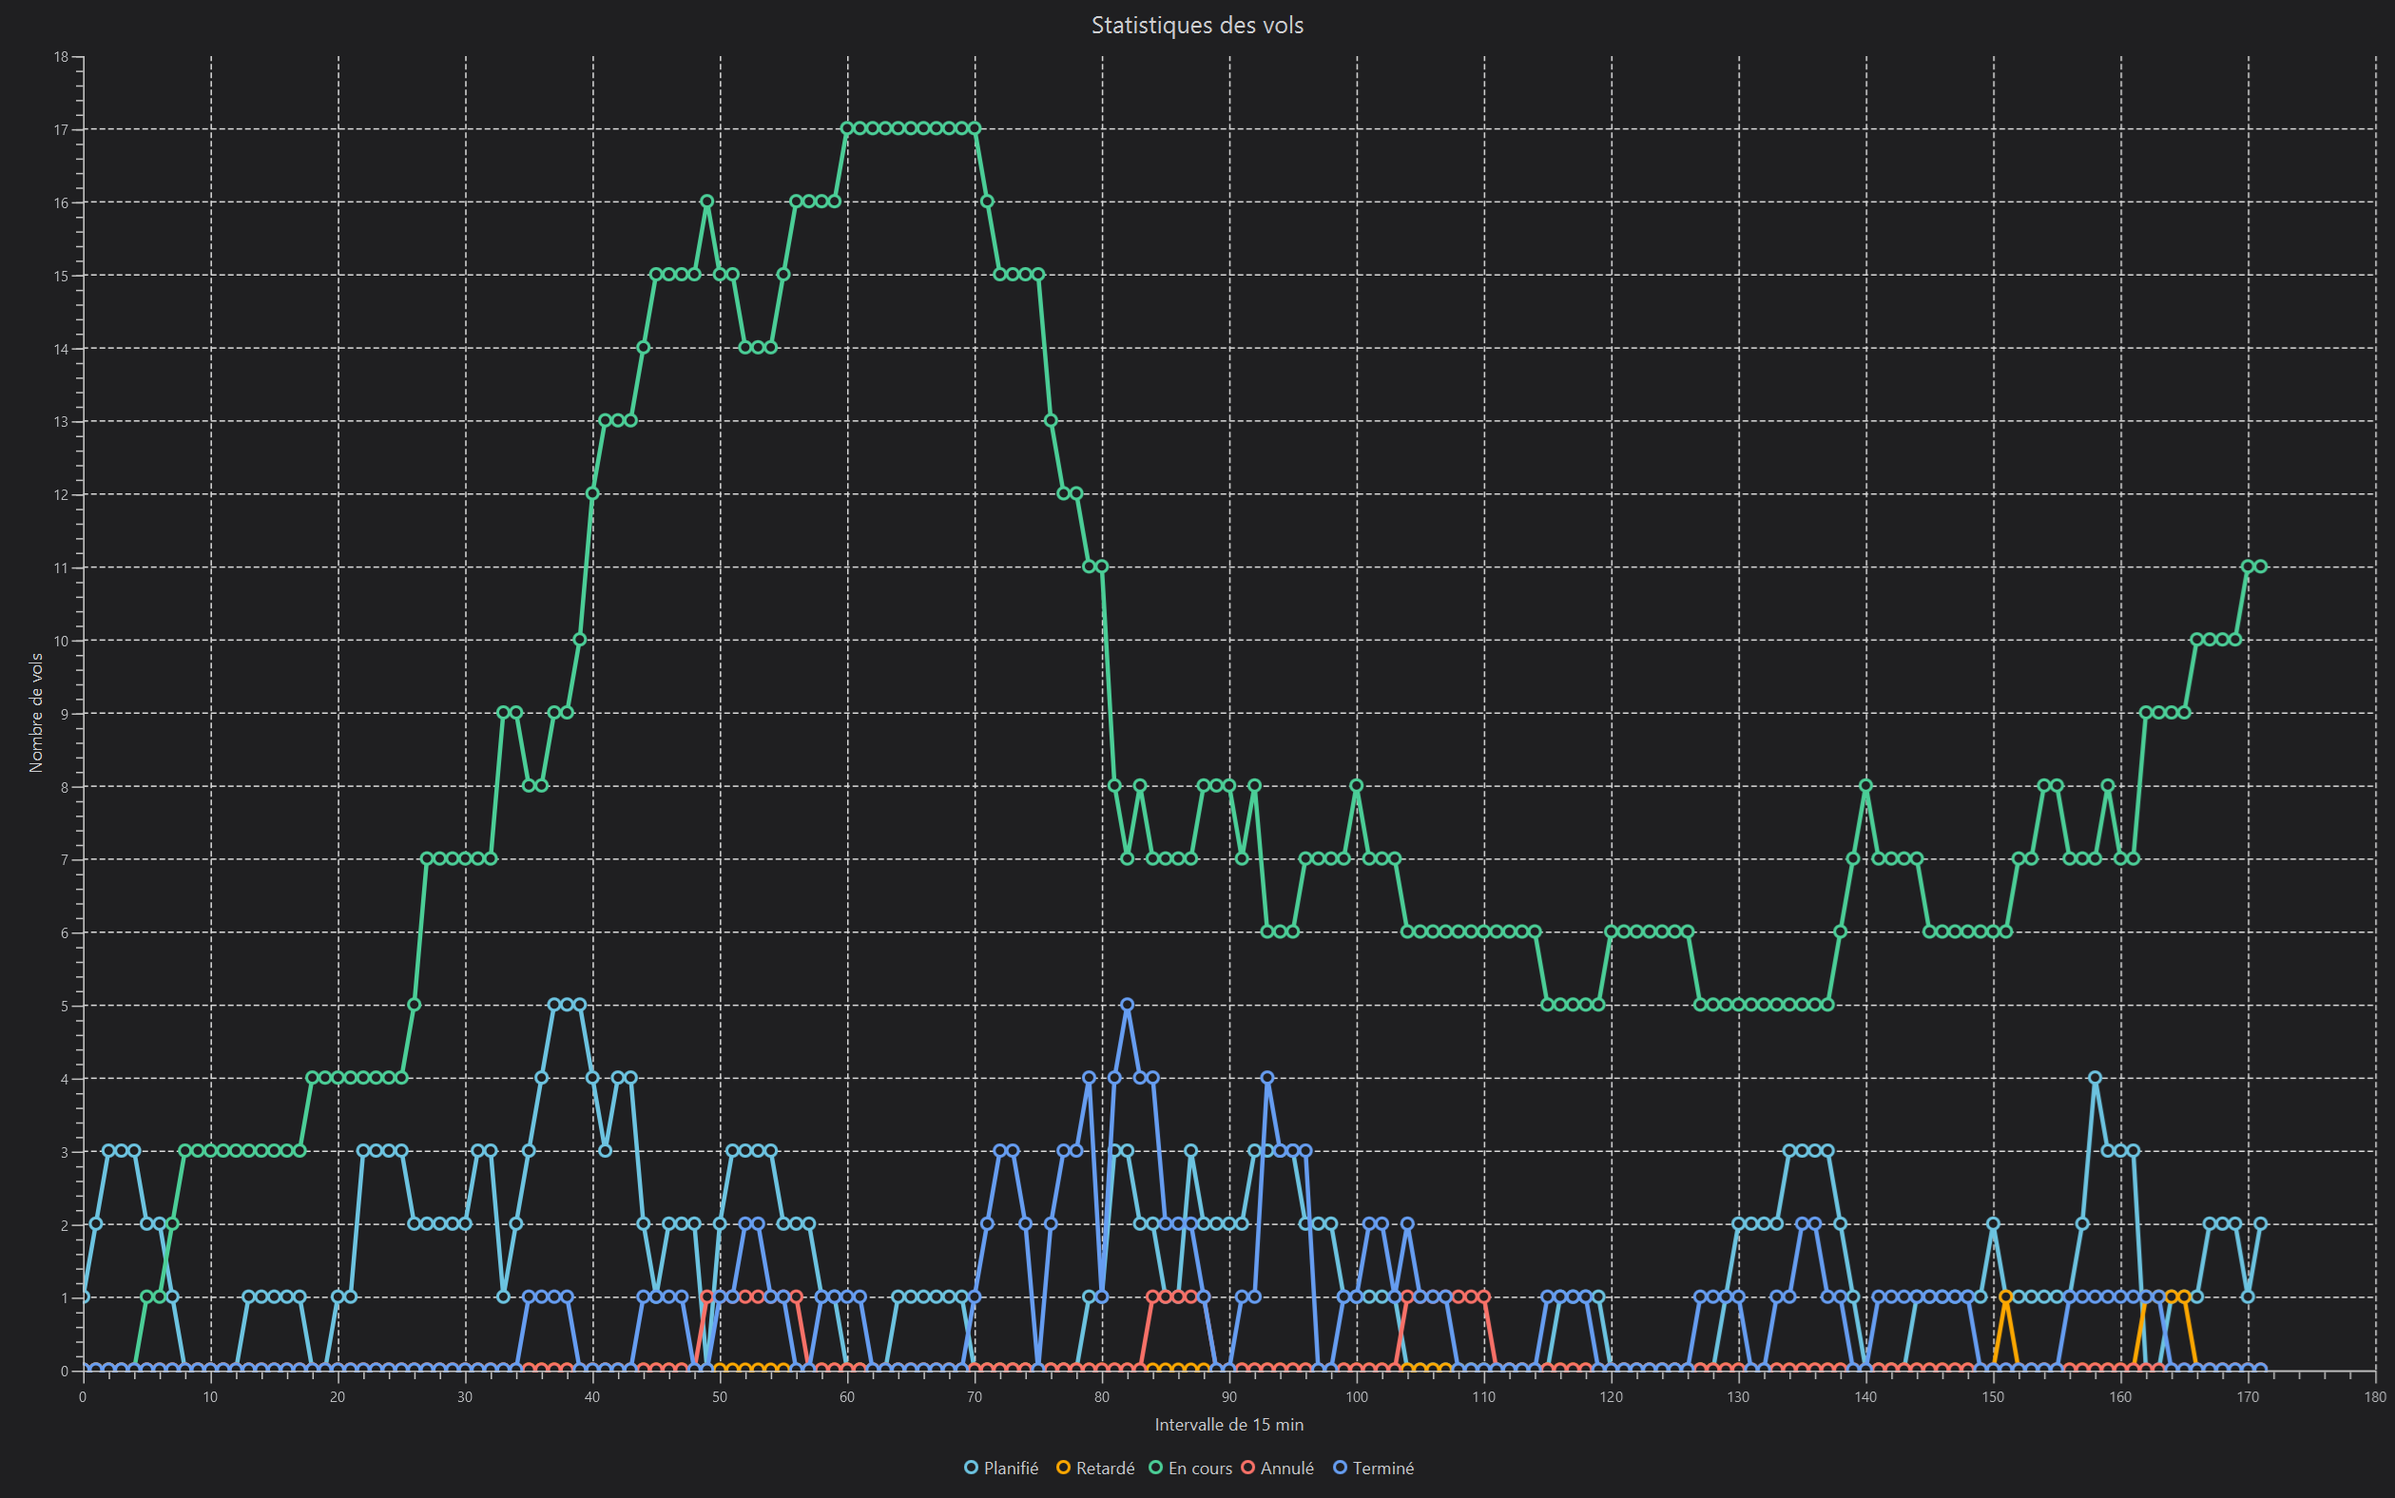
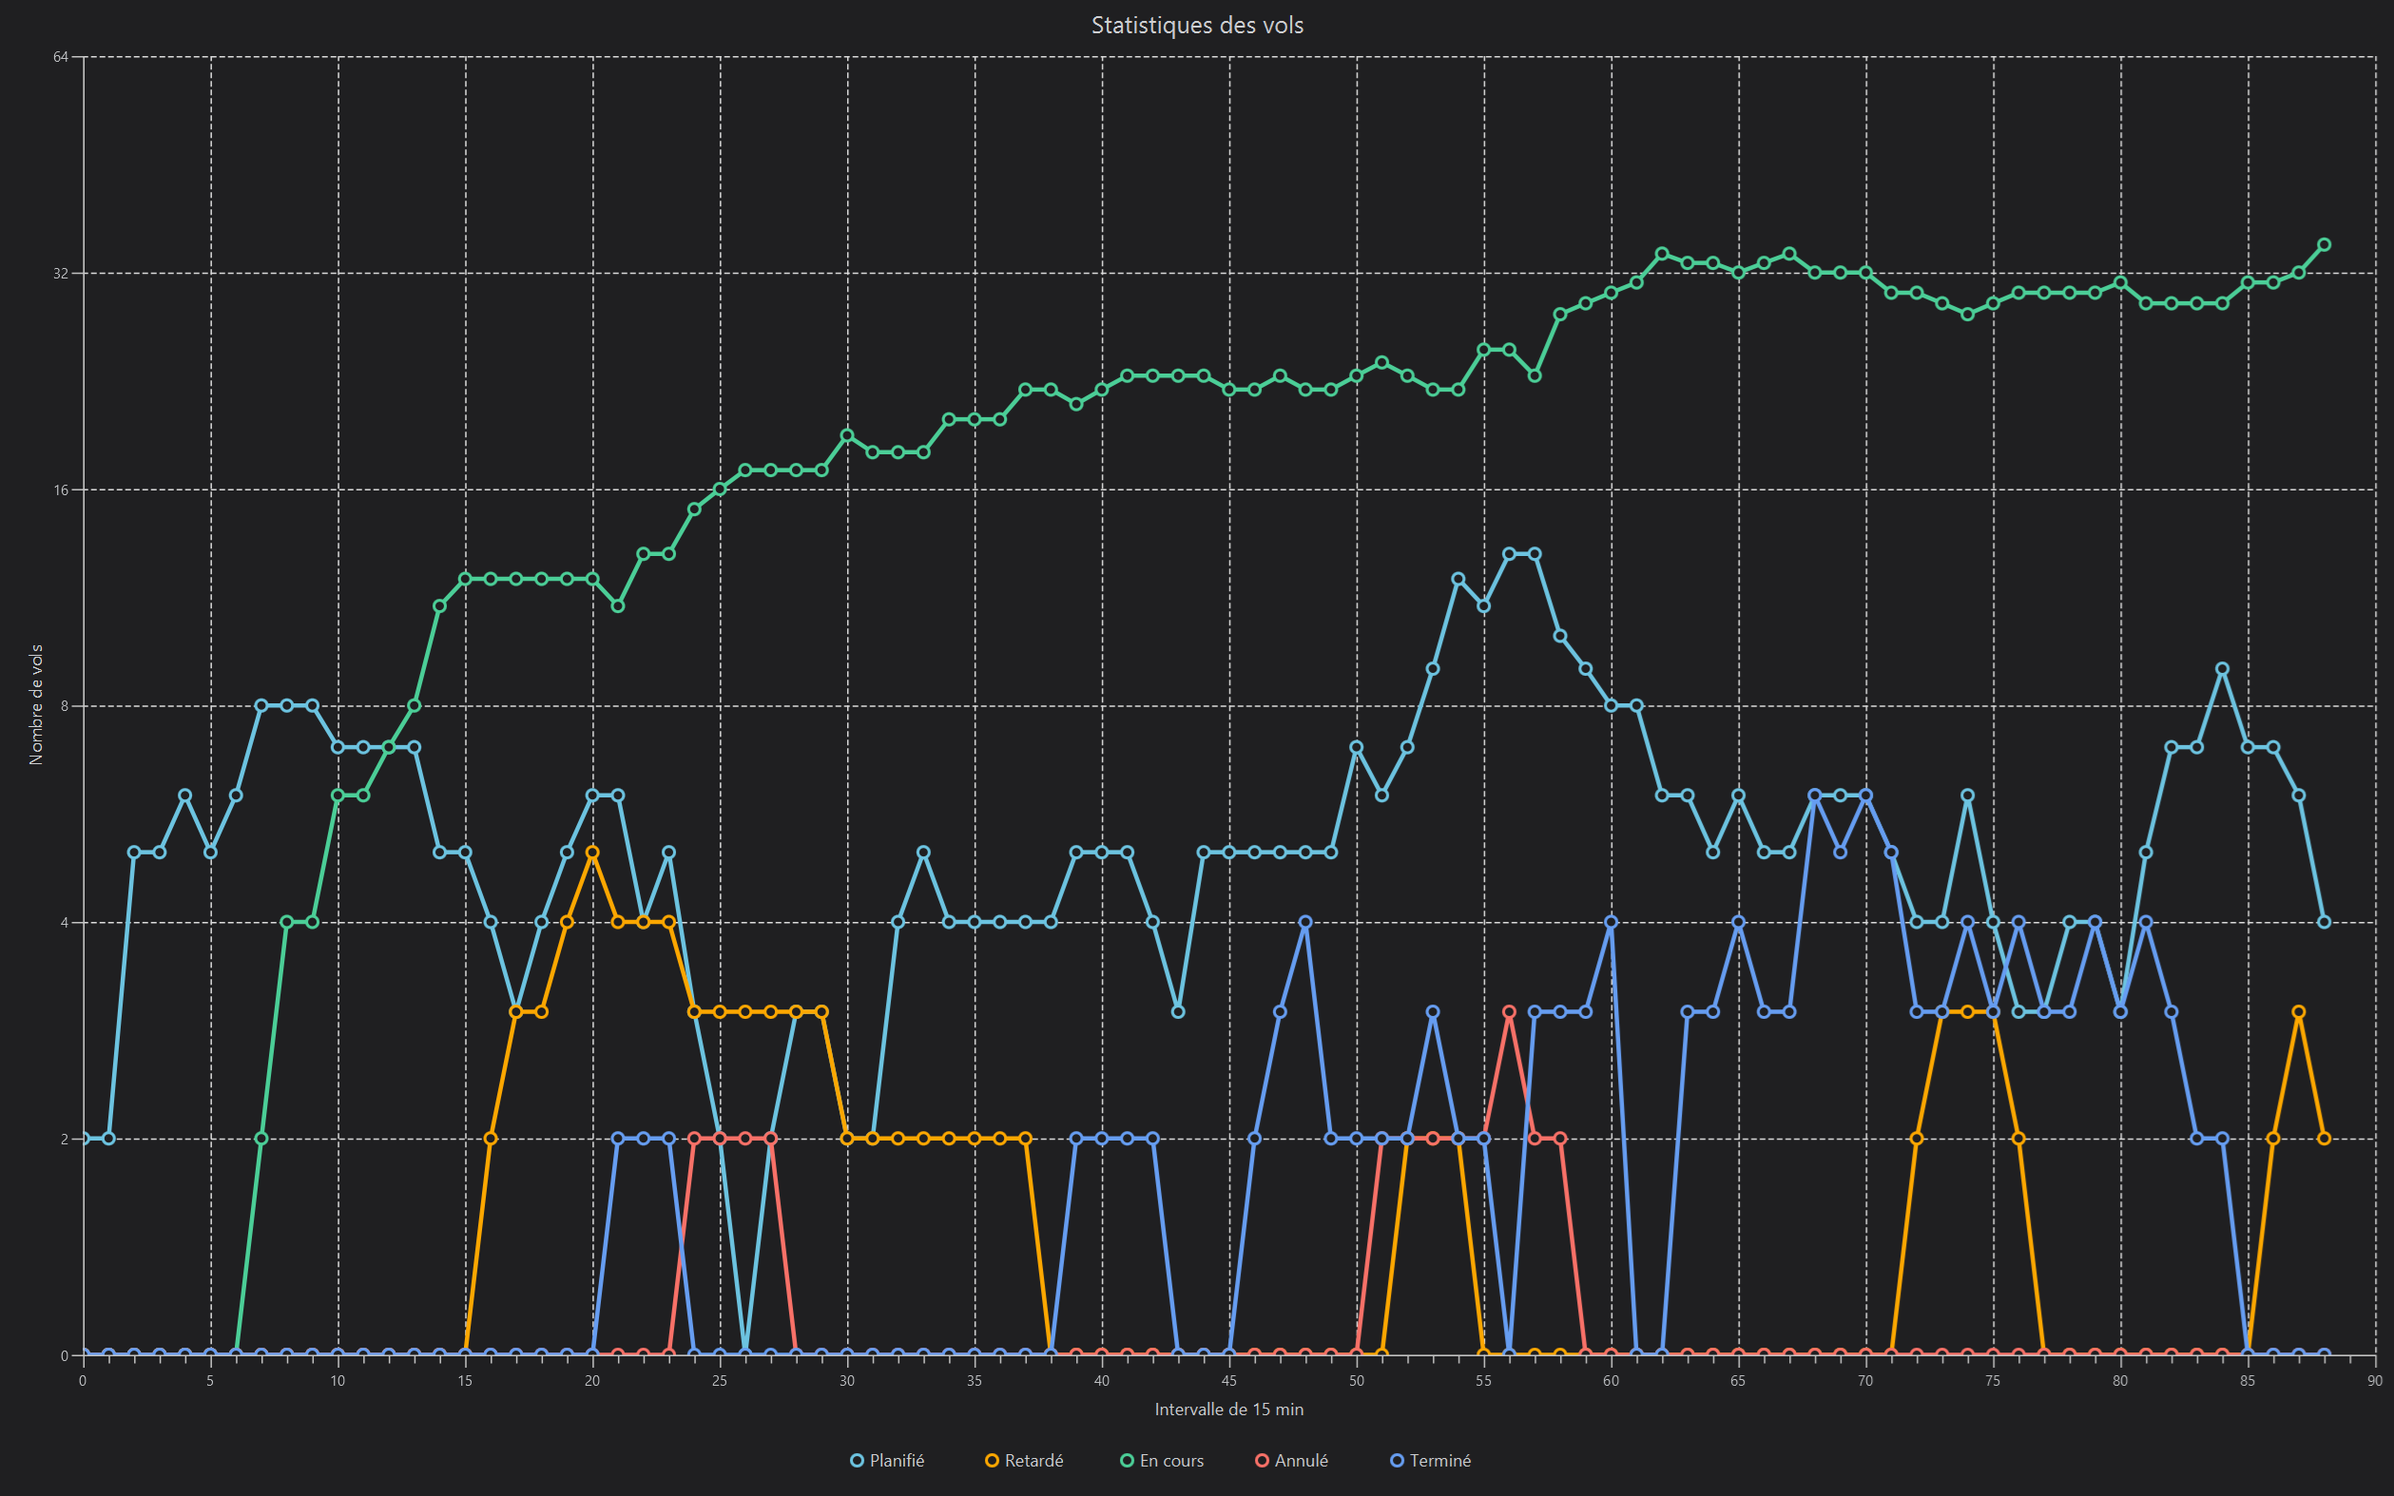
accidents can now spread to other flights

diff --git a/src/main/resources/acap/chart.css b/src/main/resources/acap/chart.css
@@ -20,11 +20,12 @@
 
 .chart-legend {
 	-fx-background-color: transparent;
-	-fx-pref-width: 340px;
+	-fx-pref-width: 500px;
 }
 
 .chart-legend-item {
 	-fx-text-fill: #CECFD2;
+	-fx-padding: 5 30 5 0;
 }
 
 .default-color0.chart-series-line {

diff --git a/src/main/java/acap/FlightChart.java b/src/main/java/acap/FlightChart.java
@@ -13,6 +13,111 @@ import java.io.IOException;
 import java.util.ArrayList;
 import java.util.List;
 
+import javafx.scene.chart.ValueAxis;
+
+class LogarithmicAxis extends ValueAxis<Number> {
+    public LogarithmicAxis() {
+        super();
+    }
+
+    @Override
+    protected List<Number> calculateMinorTickMarks() {
+        return List.of();
+    }
+
+    @Override
+    protected void setRange(Object range, boolean animate) { }
+
+    @Override
+    protected Object getRange() {
+        return null;
+    }
+
+    @Override
+    protected List<Number> calculateTickValues(double length, Object range) {
+        List<Number> ticks = new ArrayList<>();
+        double lower = getLowerBound();
+        double upper = getUpperBound();
+
+        if (lower <= 0 && upper >= 0) {
+            ticks.add(0);
+        }
+
+        int startPow = (int) Math.ceil(log2(Math.max(lower, 1)));
+        int endPow = (int) Math.floor(log2(upper));
+
+        for (int pow = startPow; pow <= endPow; pow++) {
+            double value = Math.pow(2, pow);
+            if (value >= lower && value <= upper) {
+                ticks.add(value);
+            }
+        }
+
+        return ticks;
+    }
+
+    @Override
+    protected String getTickMarkLabel(Number value) {
+        double v = value.doubleValue();
+        if (v == 0) return "0";
+        if (Math.abs(v - Math.round(v)) < 1) {
+            return String.valueOf((int) v);
+        }
+        return String.format("%f", v);
+    }
+
+    @Override
+    public double getDisplayPosition(Number value) {
+        double val = value.doubleValue();
+        double lower = getLowerBound();
+        double upper = getUpperBound();
+
+        double axisLength = getHeight();
+        if (val <= 0) return axisLength;
+
+        double logVal = log2(val);
+        double logLower = log2(Math.max(lower, 1));
+        double logUpper = log2(upper);
+
+        double ratio = (logVal - logLower) / (logUpper - logLower);
+        return axisLength - (ratio * axisLength);
+    }
+
+    @Override
+    public Number getValueForDisplay(double displayPosition) {
+        double axisLength = getHeight();
+        double ratio = 1 - (displayPosition / axisLength);
+
+        double lower = getLowerBound();
+        double upper = getUpperBound();
+        double logLower = log2(Math.max(lower, 1));
+        double logUpper = log2(upper);
+
+        double logValue = logLower + ratio * (logUpper - logLower);
+        return Math.pow(2, logValue);
+    }
+
+    @Override
+    public boolean isValueOnAxis(Number value) {
+        double val = value.doubleValue();
+        return val >= getLowerBound() && val <= getUpperBound();
+    }
+
+    @Override
+    public double toNumericValue(Number value) {
+        return value.doubleValue();
+    }
+
+    @Override
+    public Number toRealValue(double value) {
+        return value;
+    }
+
+    private double log2(double x) {
+        return Math.log(x) / Math.log(2);
+    }
+}
+
 public class FlightChart extends Application {
     private record Row(int planifie, int retarde, int enCours, int annule, int termine) {}
 
@@ -38,15 +143,15 @@ public class FlightChart extends Application {
 
     @Override
     public void start(Stage stage) {
-        stage.setTitle("Évolution des états de vol");
+        stage.setTitle("ACAP");
 
         NumberAxis xAxis = new NumberAxis();
         xAxis.setLabel("Intervalle de 15 min");
-        xAxis.setForceZeroInRange(false);
         xAxis.setTickUnit(1);
 
-        NumberAxis yAxis = new NumberAxis();
+        LogarithmicAxis yAxis = new LogarithmicAxis();
         yAxis.setLabel("Nombre de vols");
+        yAxis.setMinorTickCount(0);
 
         LineChart<Number, Number> lineChart = new LineChart<>(xAxis, yAxis);
         lineChart.setTitle("Statistiques des vols");
@@ -69,6 +174,7 @@ public class FlightChart extends Application {
             XYChart.Series<Number, Number> termineSeries = new XYChart.Series<>();
             termineSeries.setName("Terminé");
 
+            int maxVal = 0;
             for (int i = 0; i < data.size(); i++) {
                 Row row = data.get(i);
                 int interval = i;
@@ -78,7 +184,15 @@ public class FlightChart extends Application {
                 enCoursSeries.getData().add(new XYChart.Data<>(interval, row.enCours()));
                 annuleSeries.getData().add(new XYChart.Data<>(interval, row.annule()));
                 termineSeries.getData().add(new XYChart.Data<>(interval, row.termine()));
+
+                maxVal = Math.max(maxVal, row.planifie());
+                maxVal = Math.max(maxVal, row.retarde());
+                maxVal = Math.max(maxVal, row.enCours());
+                maxVal = Math.max(maxVal, row.annule());
+                maxVal = Math.max(maxVal, row.termine());
             }
+            int upperPower = (int) Math.pow(2, Math.ceil(Math.log(Math.max(maxVal, 2)) / Math.log(2)));
+            yAxis.setUpperBound(upperPower);
 
             lineChart.getData().add(planifieSeries);
             lineChart.getData().add(retardeSeries);

diff --git a/src/main/java/acap/App.java b/src/main/java/acap/App.java
@@ -24,6 +24,9 @@ public class App {
 
     private static Map<String, ArrayList<Integer>> stats = new HashMap<String, ArrayList<Integer>> ();
 
+    private static int maxRowForFlight = 15;
+    private static int spreadAccident = 0;
+
     public static void main(String[] args) {
         Util.init(aeroports, avions);
 
@@ -66,7 +69,7 @@ public class App {
             currentTime = currentTime.plusMinutes(1);
             DateTimeFormatter dateFormat = DateTimeFormatter.ofPattern("EEEE d MMMM yyyy HH:mm", Locale.FRENCH);
             System.out.printf("%43s║\n", currentTime.format(dateFormat));
-            if (random.nextInt(50) == 0) {
+            if (random.nextInt(15) == 0) {
                 nouveauVol();
             }
 
@@ -96,9 +99,20 @@ public class App {
         if (vols.isEmpty()) {
             System.out.printf("║%34sPas de vol%34s║\n", "", "");
         }
-        for (int i = 0; i < vols.size(); i++) {
+        int start = 0;
+        int amtVol = vols.size();
+        if (amtVol > maxRowForFlight) {
+            start = amtVol - maxRowForFlight;
+            String amtSkipped = Integer.toString(start);
+            int totalPad = 60 - amtSkipped.length();
+            int padLeft = totalPad / 2;
+            int padRight = totalPad - padLeft;
+            System.out.printf("║%s%s%s%s║\n", " ".repeat(padLeft), amtSkipped, " vols non affichés", " ".repeat(padRight));
+            System.out.println("╟" + "-".repeat(78) + "╢");
+        }
+        for (int i = start; i < amtVol; i++) {
             System.out.printf("║%s║\n", vols.get(i).obtenirGraph(currentTime));
-            if (i != vols.size() - 1) {
+            if (i != amtVol - 1) {
                 System.out.println("╟" + "─".repeat(78) + "╢");
             }
         }
@@ -259,15 +273,21 @@ public class App {
             if (vol.getEtat() == EtatVol.PLANIFIE && random.nextInt(1000) == 0) {
                 vol.setEtat(EtatVol.ANNULE);
             } else if (vol.getEtat() == EtatVol.PLANIFIE && vol.getDateHeureDepart().isBefore(currentTime)) {
-                if (random.nextInt(45) == 0) {
+                if (spreadAccident > 0 && random.nextInt(2) == 0) {
                     vol.setEtat(EtatVol.RETARDE);
+                    vol.setDateHeureDepart(vol.getDateHeureDepart().plusMinutes(1));
+                    vol.setDateHeureArrivee(vol.getDateHeureArrivee().plusMinutes(1));
+                    spreadAccident -= 1;
+                } else if (random.nextInt(15) == 0) {
+                    vol.setEtat(EtatVol.RETARDE);
+                    spreadAccident = random.nextInt(5);
                     vol.setDateHeureDepart(vol.getDateHeureDepart().plusMinutes(1));
                     vol.setDateHeureArrivee(vol.getDateHeureArrivee().plusMinutes(1));
                 } else {
                     vol.setEtat(EtatVol.EN_COURS);
                 }
             } else if (vol.getEtat() == EtatVol.RETARDE && vol.getDateHeureDepart().isBefore(currentTime)) {
-                if (random.nextInt(135) == 0) {
+                if (random.nextInt(150) == 0) {
                     vol.setEtat(EtatVol.EN_COURS);
                 } else {
                     vol.setDateHeureDepart(vol.getDateHeureDepart().plusMinutes(1));
